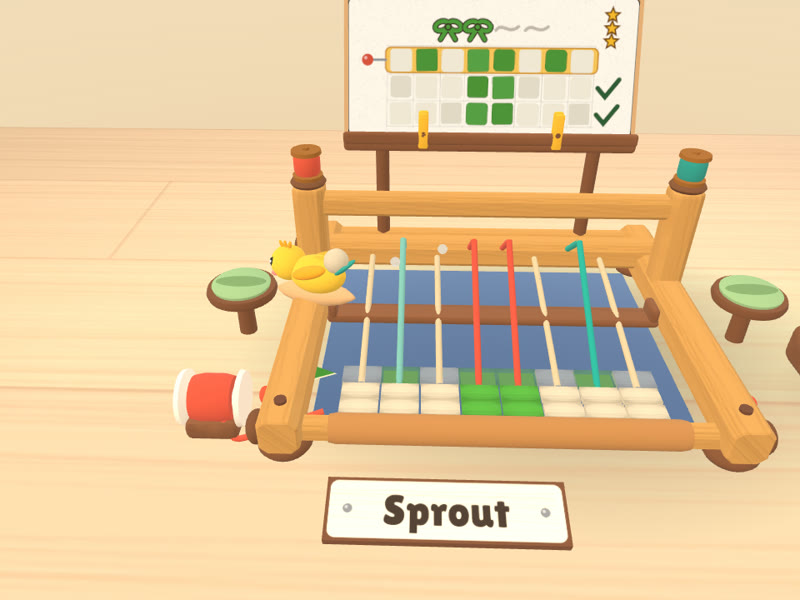
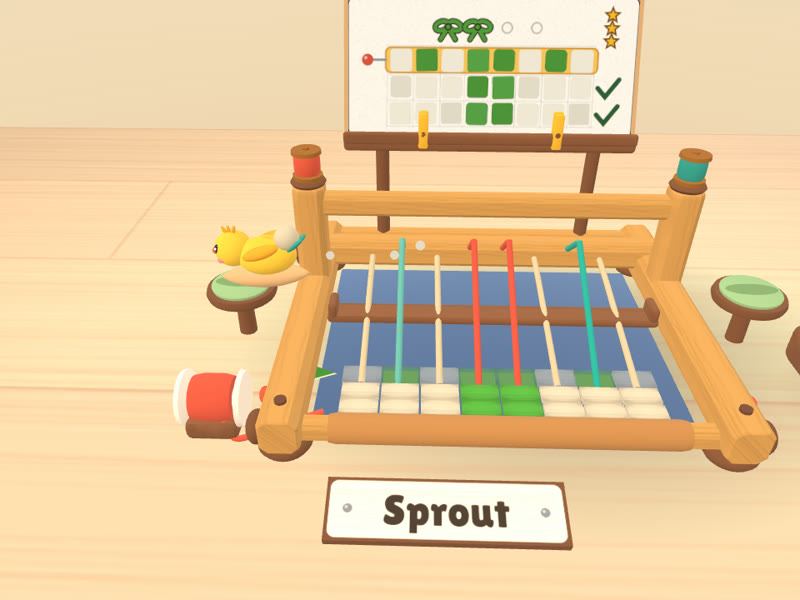
A clean gallery from the final build: ten 3:2 stills on the warm photo set plus the phone caller (the dancing plush as thumbnail, a ghost-hand demo, Night's undyed levers, the toy telephone), each re-shot a little wider so tags stay whole, hints hidden in stills that aren't about them (capture-only 

Changed region(s): [[0.25, 0.36, 0.4375, 0.51], [0.4688, 0.39, 0.5625, 0.63], [0.625, 0.03, 0.6875, 0.06]]

diff --git a/src/app/game-system.ts b/src/app/game-system.ts
@@ -168,6 +168,9 @@ export class GameSystem extends createSystem({
   /** Finished chapters' quilts, hung on the real wall in front of the seat (world space). */
   private quiltRoot = new Group();
   private quilts = new Map<string, Group>();
+  /** Capture only (marketing stills): hide the tutorial tags and the ghost hand. */
+  hideHints = false;
+  private hintsHidden = false;
   /** The wall the quilts hang on this session: a point straight ahead at the hanging height, its normal and its along-wall direction. */
   private wall: { at: Vector3; n: Vector3; t: Vector3; size: number } | null = null;
   private wallSearchIn = 0;
@@ -2248,6 +2251,19 @@ export class GameSystem extends createSystem({
     }
     this.syncGhost(dt, step);
     const m = this.tutor.mesh;
+    if (this.hideHints) {
+      // capture only: no tags or ghost hand in a still that isn't about them
+      m.visible = false;
+      this.view.ghost.root.visible = false;
+      this.hintsHidden = true;
+      return;
+    }
+    if (this.hintsHidden) {
+      this.hintsHidden = false;
+      const words = this.notice || this.hintText(this.flow.hintStep);
+      this.tutor.set(''); // the label skips an unchanged text: clear it first so it redraws and shows
+      this.tutor.set(words); // shows again only if it has words
+    }
     if (this.notice) {
       this.noticeTimer -= dt;
       if (this.noticeAt === 'token') m.position.set(0, CARD.baseY + this.view.card.heightM + 0.03, CARD.z); // above the card
